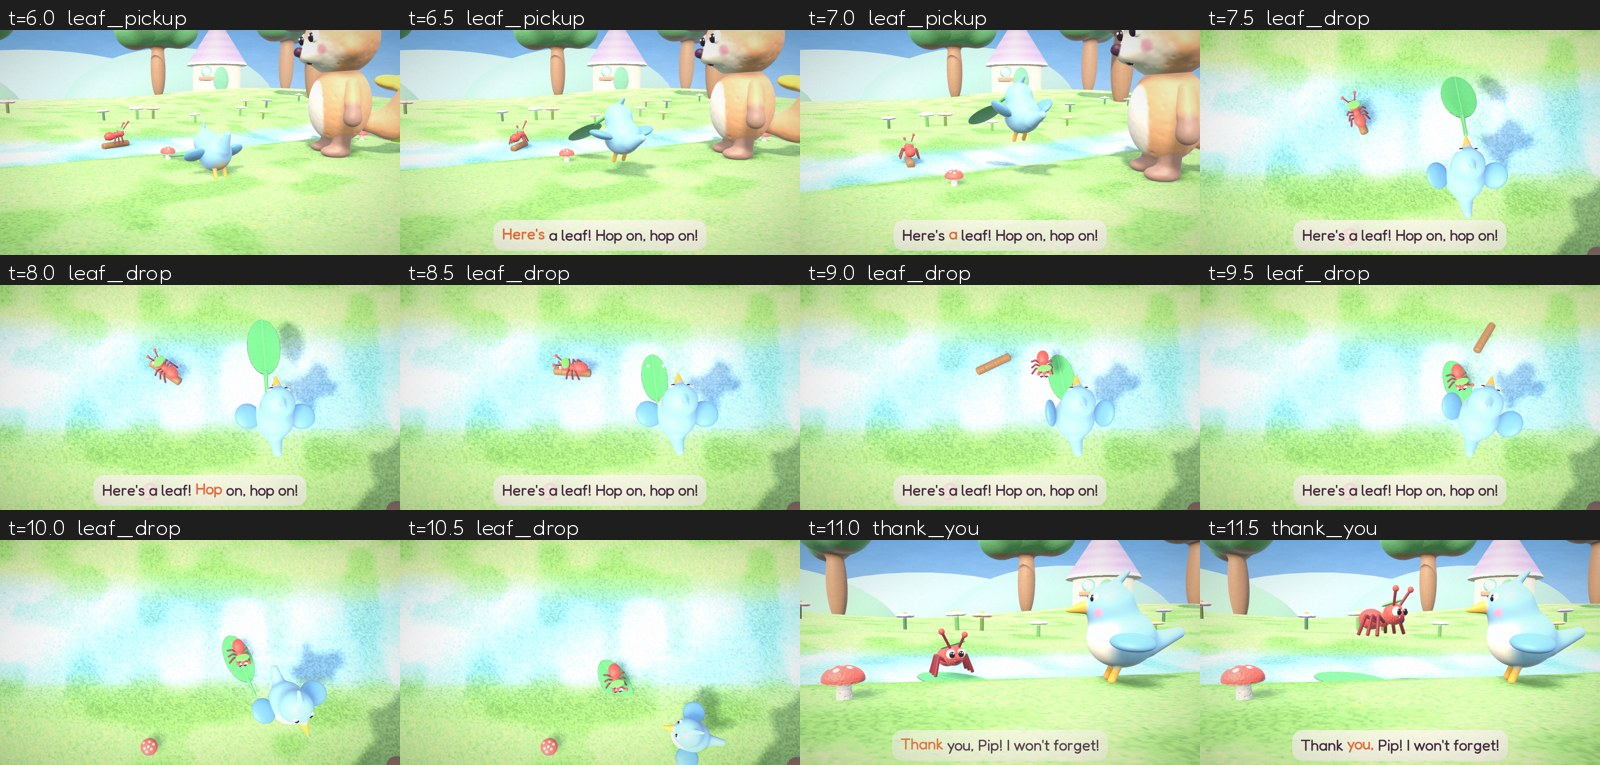
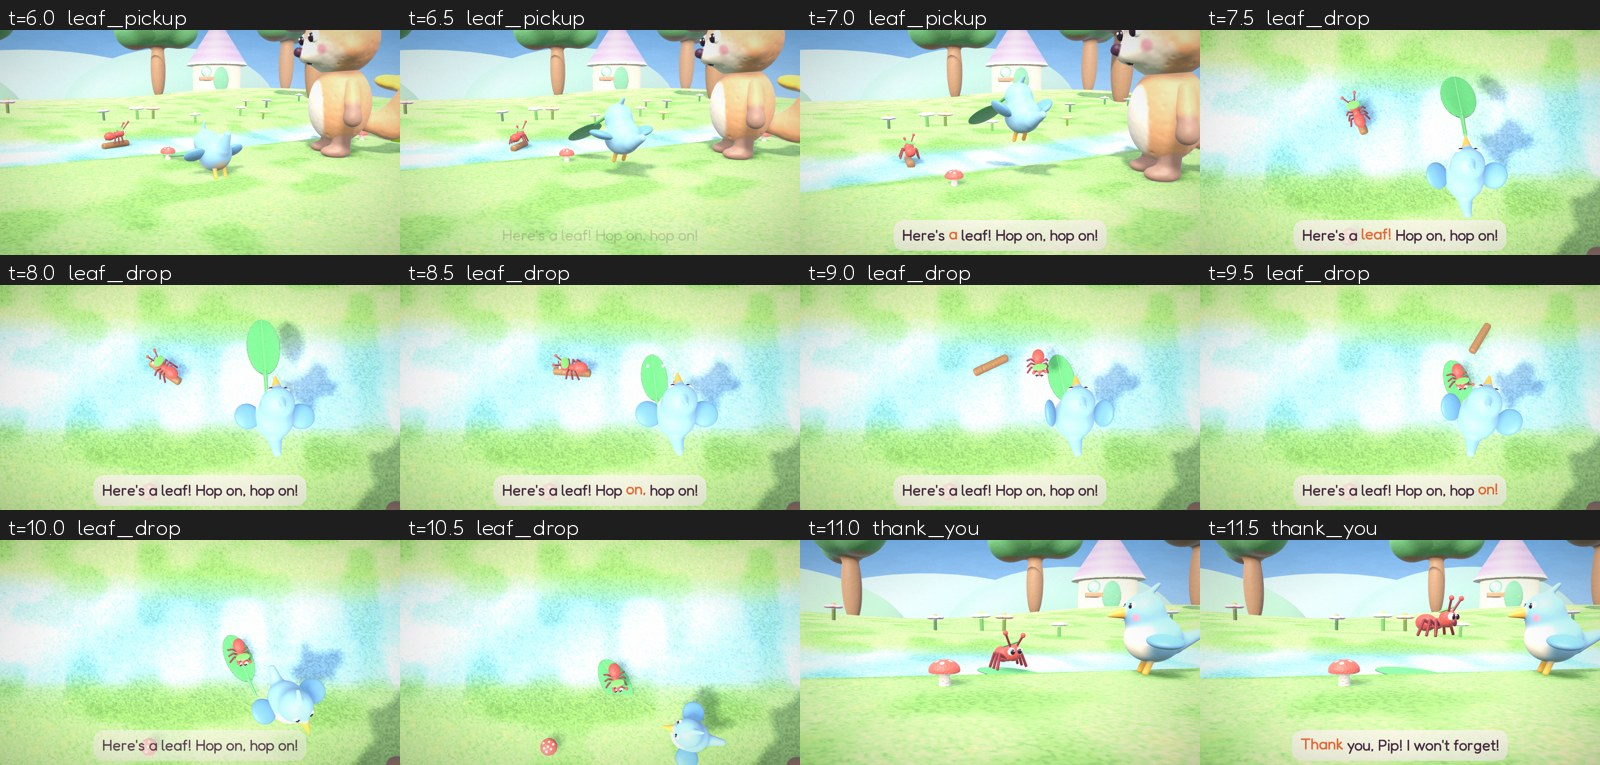
Fable 10: retime to the real song, wider tug camera, new sheets
Claude-Session: https://claude.ai/code/session_011EeTRBWW5kitD6gAn3QTQD

diff --git a/batches/01-fables-friendship/fable-10-one-good-turn/code/render.py b/batches/01-fables-friendship/fable-10-one-good-turn/code/render.py
@@ -253,7 +253,7 @@ def ants(t):
         for k in range(6):
             pts = ant_path(k); sk = (t - march_start(k)) * MARCH_SPEED
             Lk = path_len(pts)
-            if n == "ants_march" and sk < Lk:
+            if n in ("ants_march", "tug") and sk < Lk:
                 if sk < 0: continue
                 (x, z), yaw = path_pt(pts, sk)
                 st = ant_on(x, z, yaw, walk=t * 26 + k, feelers=0.5)
@@ -473,9 +473,9 @@ def camera(t):
         a = SH[name][0]; tp = lerp(np.array([-0.2, 0.35, -3.3]), np.array([1.3, 0.45, -2.9]), ease(u))
         return fit_cam(tp + (np.array([0, 0.6, 0]) if WIDE else 0), lerp(-8, -22, e), 13, 2.1, 1.3 if not WIDE else 1.9)
     if name == "tug":                                       # side-on along the line
-        return fit_cam(np.array([HP[0] - 0.55, 0.4, HP[1] - 0.45]), lerp(-8, -20, e), 8, 1.35, 0.9 if not WIDE else 1.6, lift=0.06)
+        return fit_cam(np.array([HP[0] - 0.85, 0.5, HP[1] - 0.5]), lerp(-6, -18, e), 8, 2.0, 0.9 if not WIDE else 1.7, lift=0.06)
     if name == "pop":                                       # wide side: the pop and the somersault onto his nose
-        k = ease(clampu(t, T.LANDING, T.LANDING + 0.9))
+        k = ease(clampu(t, T.POP + 0.05, T.LANDING))
         return fit_cam(np.array([lerp(1.15, 0.35, k), lerp(1.3, 1.5, k), -3.5]), -4, 8, lerp(1.95, 1.45, k), lerp(2.2, 1.7, k), lift=0.05)
     if name == "moral":
         return fit_cam(np.array([TS[0] + 0.05, lerp(1.3, 1.38, e), TS[1]]), lerp(8, 3, e), 5, lerp(1.75, 1.55, e), lerp(1.45, 1.25, e))

diff --git a/batches/01-fables-friendship/fable-10-one-good-turn/code/timeline.py b/batches/01-fables-friendship/fable-10-one-good-turn/code/timeline.py
@@ -106,8 +106,8 @@ WHISTLE = PB_SPLIT + 1.0                             # the ant whistles for its 
 MARCH = WHISTLE + 0.35                               # the ant line sets off
 TUGS = word_times("heave", "Twist")[:2] + word_times("more", "Twist")[:1]
 POP = _w("pop", "Twist", 0, _tw[0] + 3.0)
-TW_SPLIT = POP - 0.25                                # cut to the wide just before the pop
-LANDING = POP + 1.25                                 # Pip lands on Tumble's nose
+TW_SPLIT = POP - 0.7                                 # cut to the wide just before the pop
+LANDING = POP + 0.55                                 # Pip lands on Tumble's nose
 HIGH_FIVE = _c[1] - 0.9
 SPOKEN = [dict(file="s00_tumble", who="tumble", t0=PB_SPLIT + 0.25, caption="Uh-oh!", tags="[worried]"),
           dict(file="s01_pip", who="pip", t0=POP + 0.2, caption="Wheee!", tags="[excited] [laughing]"),
